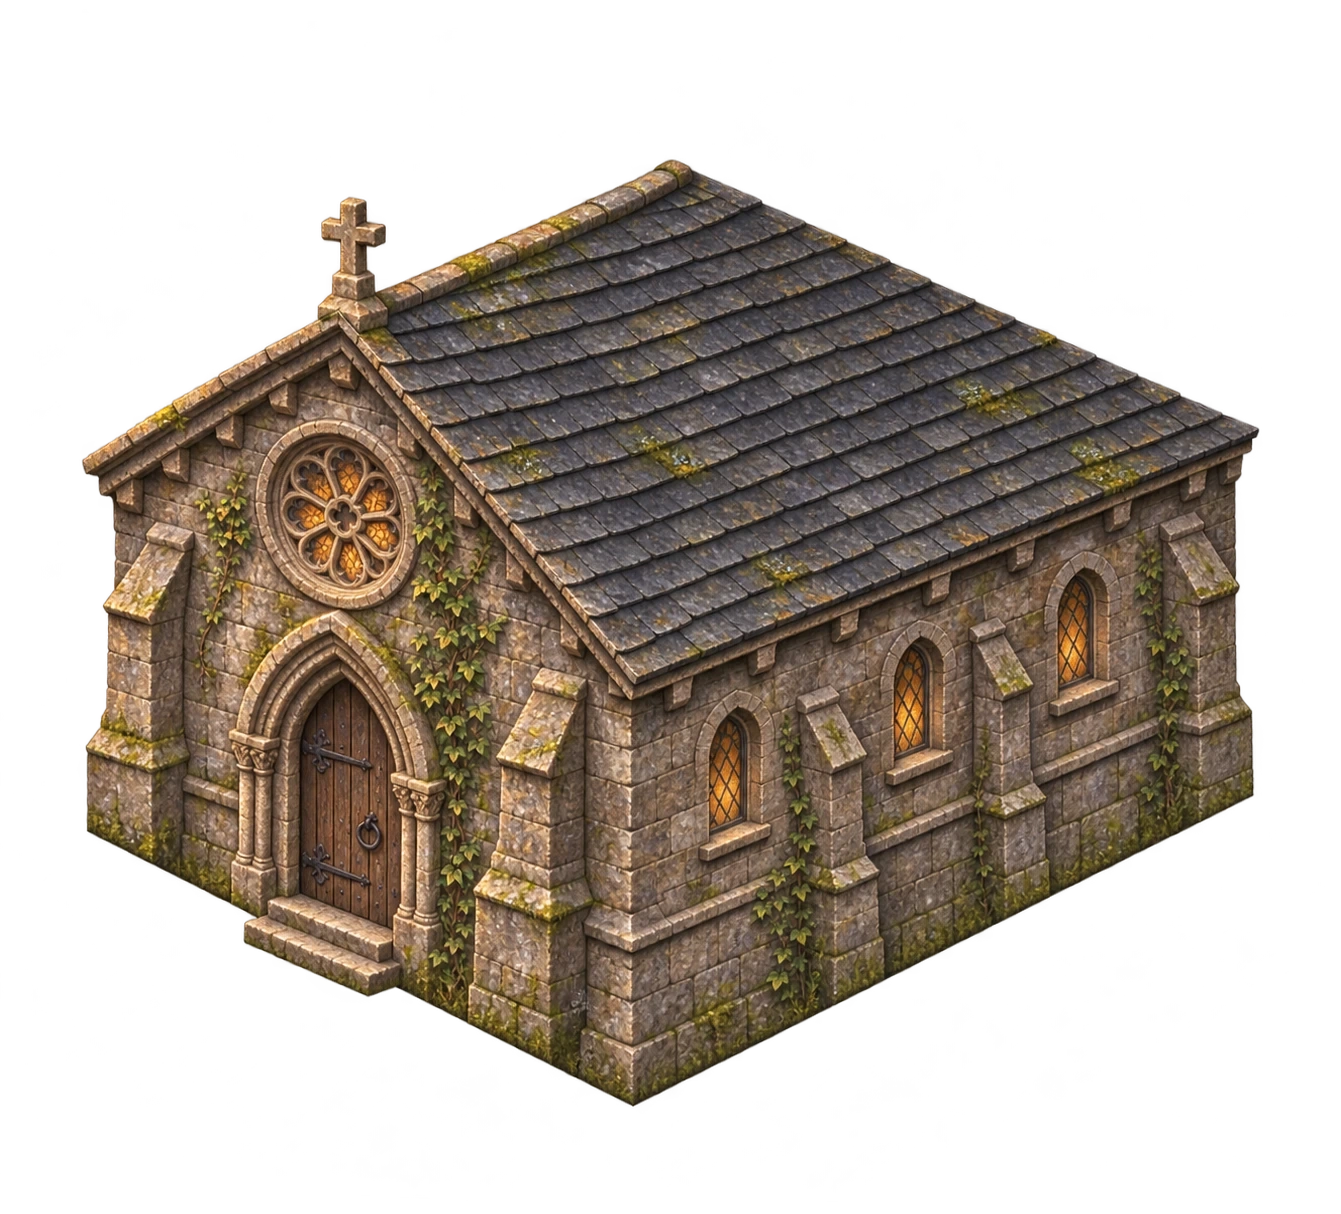
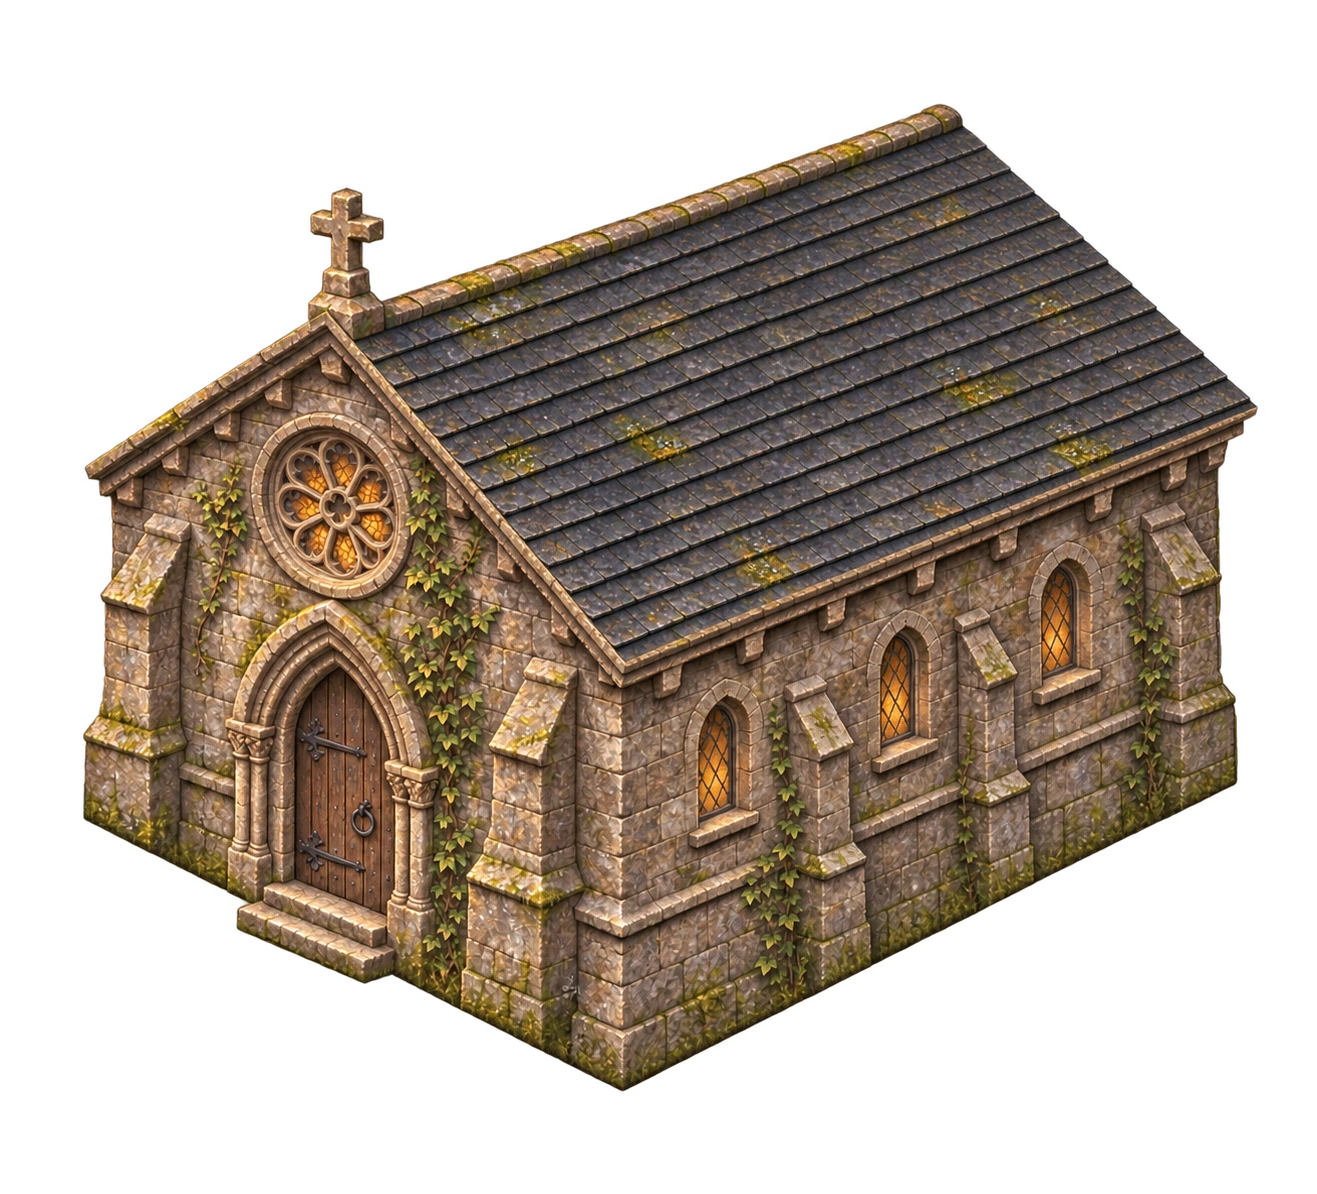
Revise Crypt roof and record Mark's approval of all six landmarks

Changed region(s): [[0.0623, 0.093, 0.9651, 0.9296]]

diff --git a/art-review/landmark-grid-redraws/README.md b/art-review/landmark-grid-redraws/README.md
@@ -1,26 +1,7 @@
-# Landmark grid redraw review
+# Approved landmark redraws
 
-Six new painted candidates for the landmark redraw brief, 19 November 2026.
+Mark approved Mended Drum, Archives, Market Hall, Lantern Row and Storehouse on 19 November 2026. He requested a Crypt roof revision, then approved the revised Crypt. All six sprites in this folder now have creative approval.
 
-The paintings were generated with the shipped bakery style reference and a 2:1 footprint guide. The generated projections still deviated, so the final sprites received a vertical column projection fit around their front corners. This sets the selected foundation edges to 26.565 degrees in each direction. Upright edges retain their length. The fitting can affect roof details and requires visual review.
+The Crypt roof was repainted with the built-in image generator to remove the bent ridge and slate courses. Its revision supersedes the previous fitted Crypt. The other five approved sprites retain their reviewed pixels. The comparison sheet now shows the approved set.
 
-The six transparent WebP sprites are drum, archives, market, lantern, crypt and store. grid-review.jpg shows all six with their measured foundation registration lines in green. registration.json records the source control points, dimensions and front corner anchors. Preview order is Mended Drum, Archives, Market Hall across the top, then Lantern Row, Crypt and Storehouse.
-
-These are review candidates. Full in-game scale, doors, cutaways, collision registration and daylight/window emission passes remain to be fitted and checked. The base registration does not certify every roof line. The Storehouse currently has its large cart entrance on the left facade, and Lantern Row still needs its fourth distinct entrance resolved to satisfy every architectural detail of the brief.
-
-Created using the built-in image generator. Shared prompt requested strict 2:1 dimetric projection, upright corners, weathered painted materials, warm windows and transparent isolation. Individual descriptions followed docs/art/IMAGE-TOOL-PROMPTS.md.
-
-## Independent raster edge measurement
-
-Measured from the final WebP alpha silhouettes, threshold 128. On each facade, samples exclude the first and last 20 pixels and outliers more than 8 pixels from the median base-line intercept, to exclude projecting steps and buttresses. The fitted slopes below are observed values, distinct from the exact control-point angles.
-
-| Sprite | Left edge | Right edge |
-| --- | ---: | ---: |
-| Mended Drum | 26.71° | 26.57° |
-| Archives | 26.91° | 27.01° |
-| Market Hall | 27.23° | 26.48° |
-| Lantern Row | 26.59° | 26.76° |
-| Crypt | 26.74° | 26.64° |
-| Storehouse | 26.64° | 27.67° |
-
-All six meet the brief's 26–28° base-edge tolerance.
+The first five candidates used a bakery style reference and a 2:1 footprint guide followed by vertical-column projection fitting. The Crypt revision was painted from its prior candidate. The registration file records the revision and approximate foundation coordinates. Full game placement, actor scale, doors, cutaways and day/night emission passes remain integration work.
